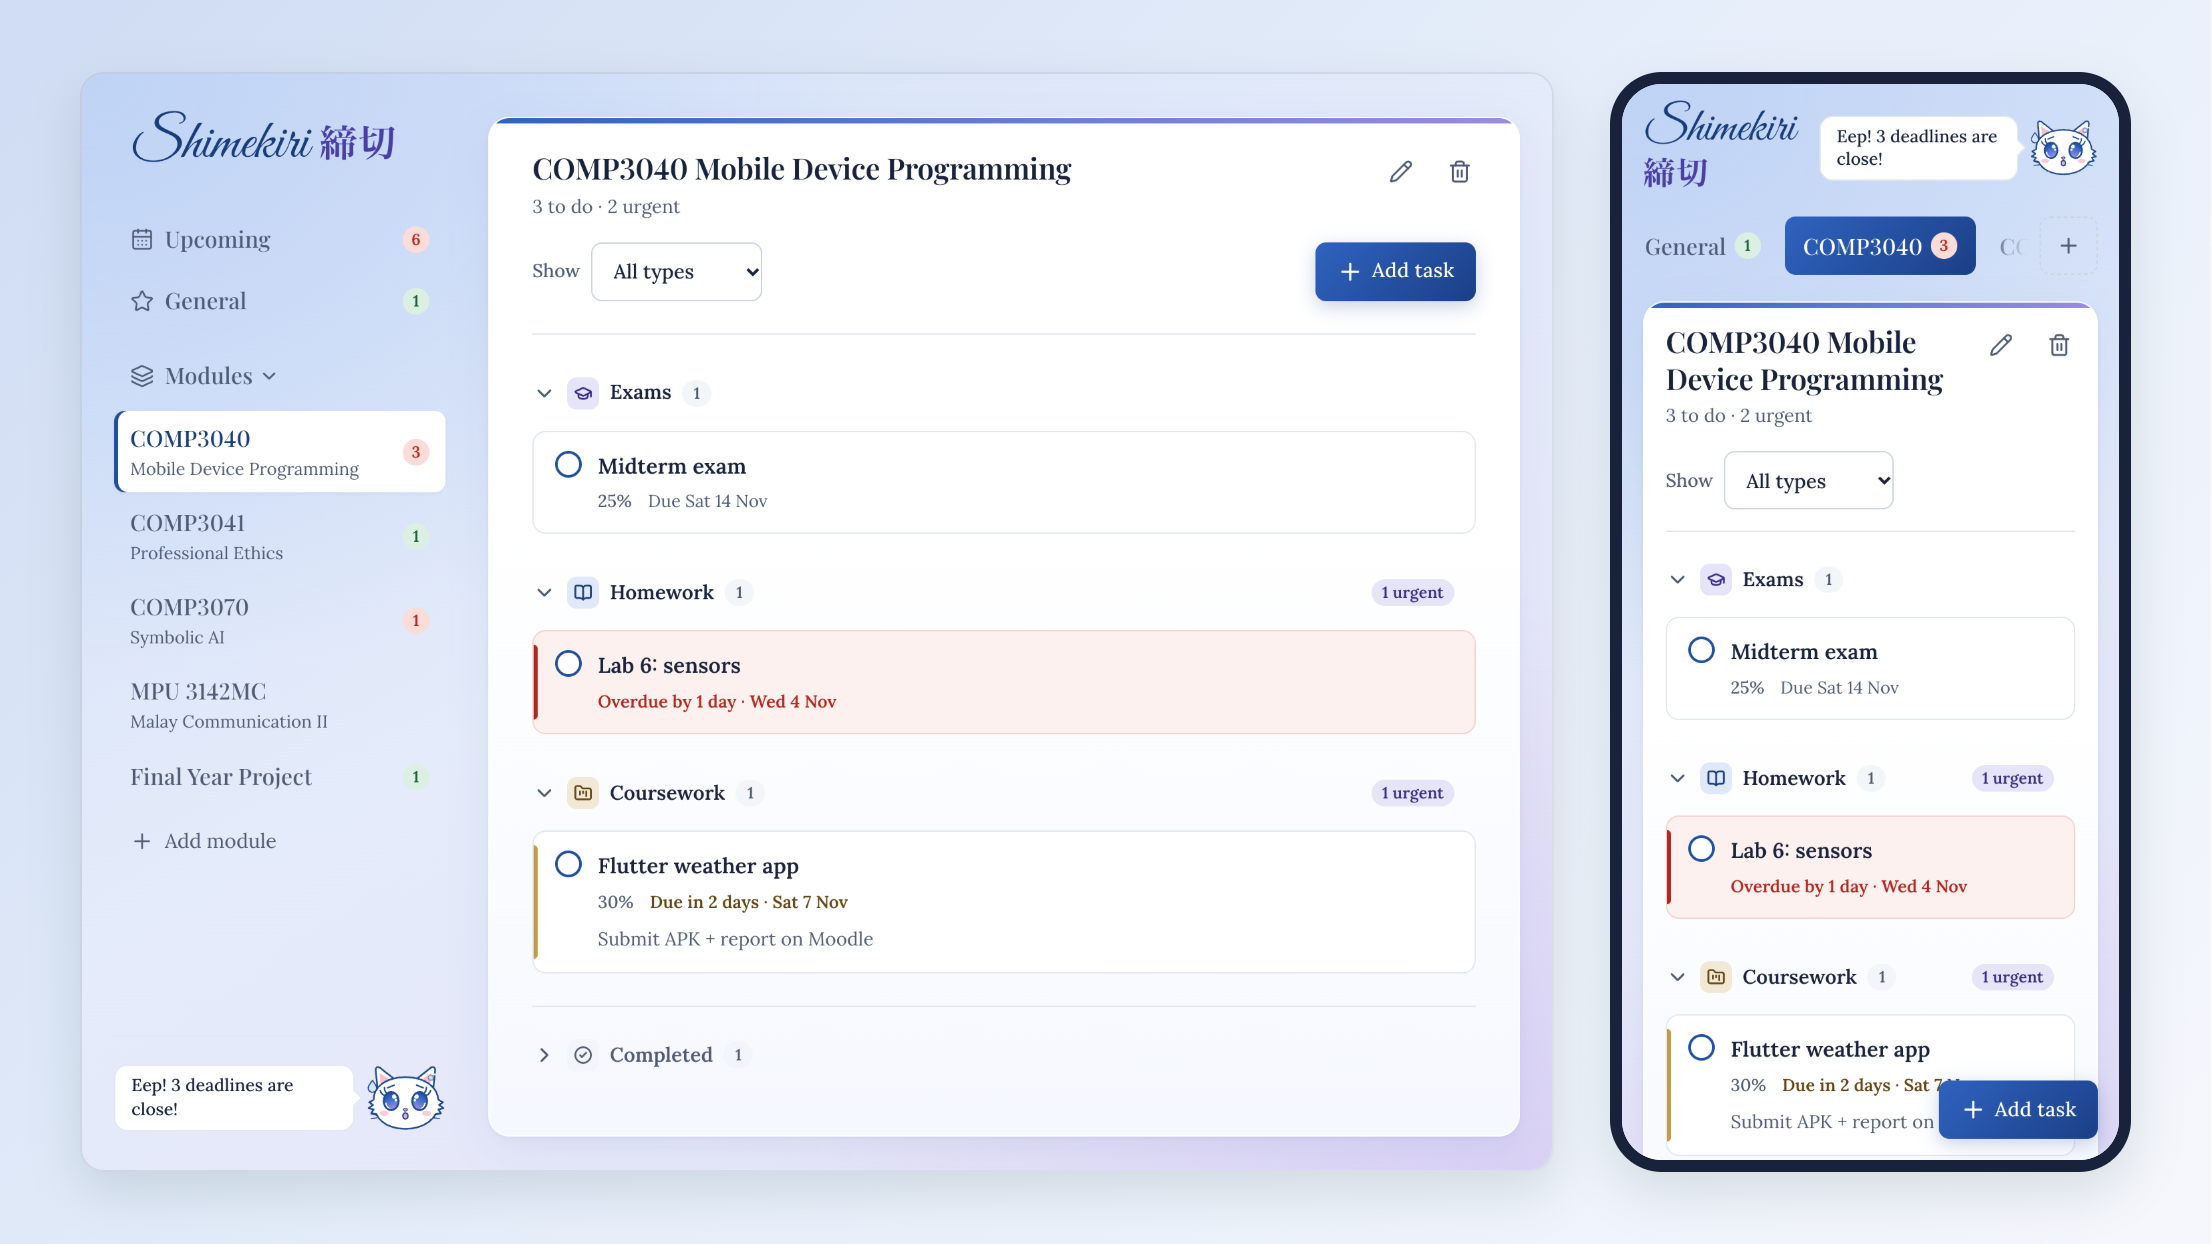
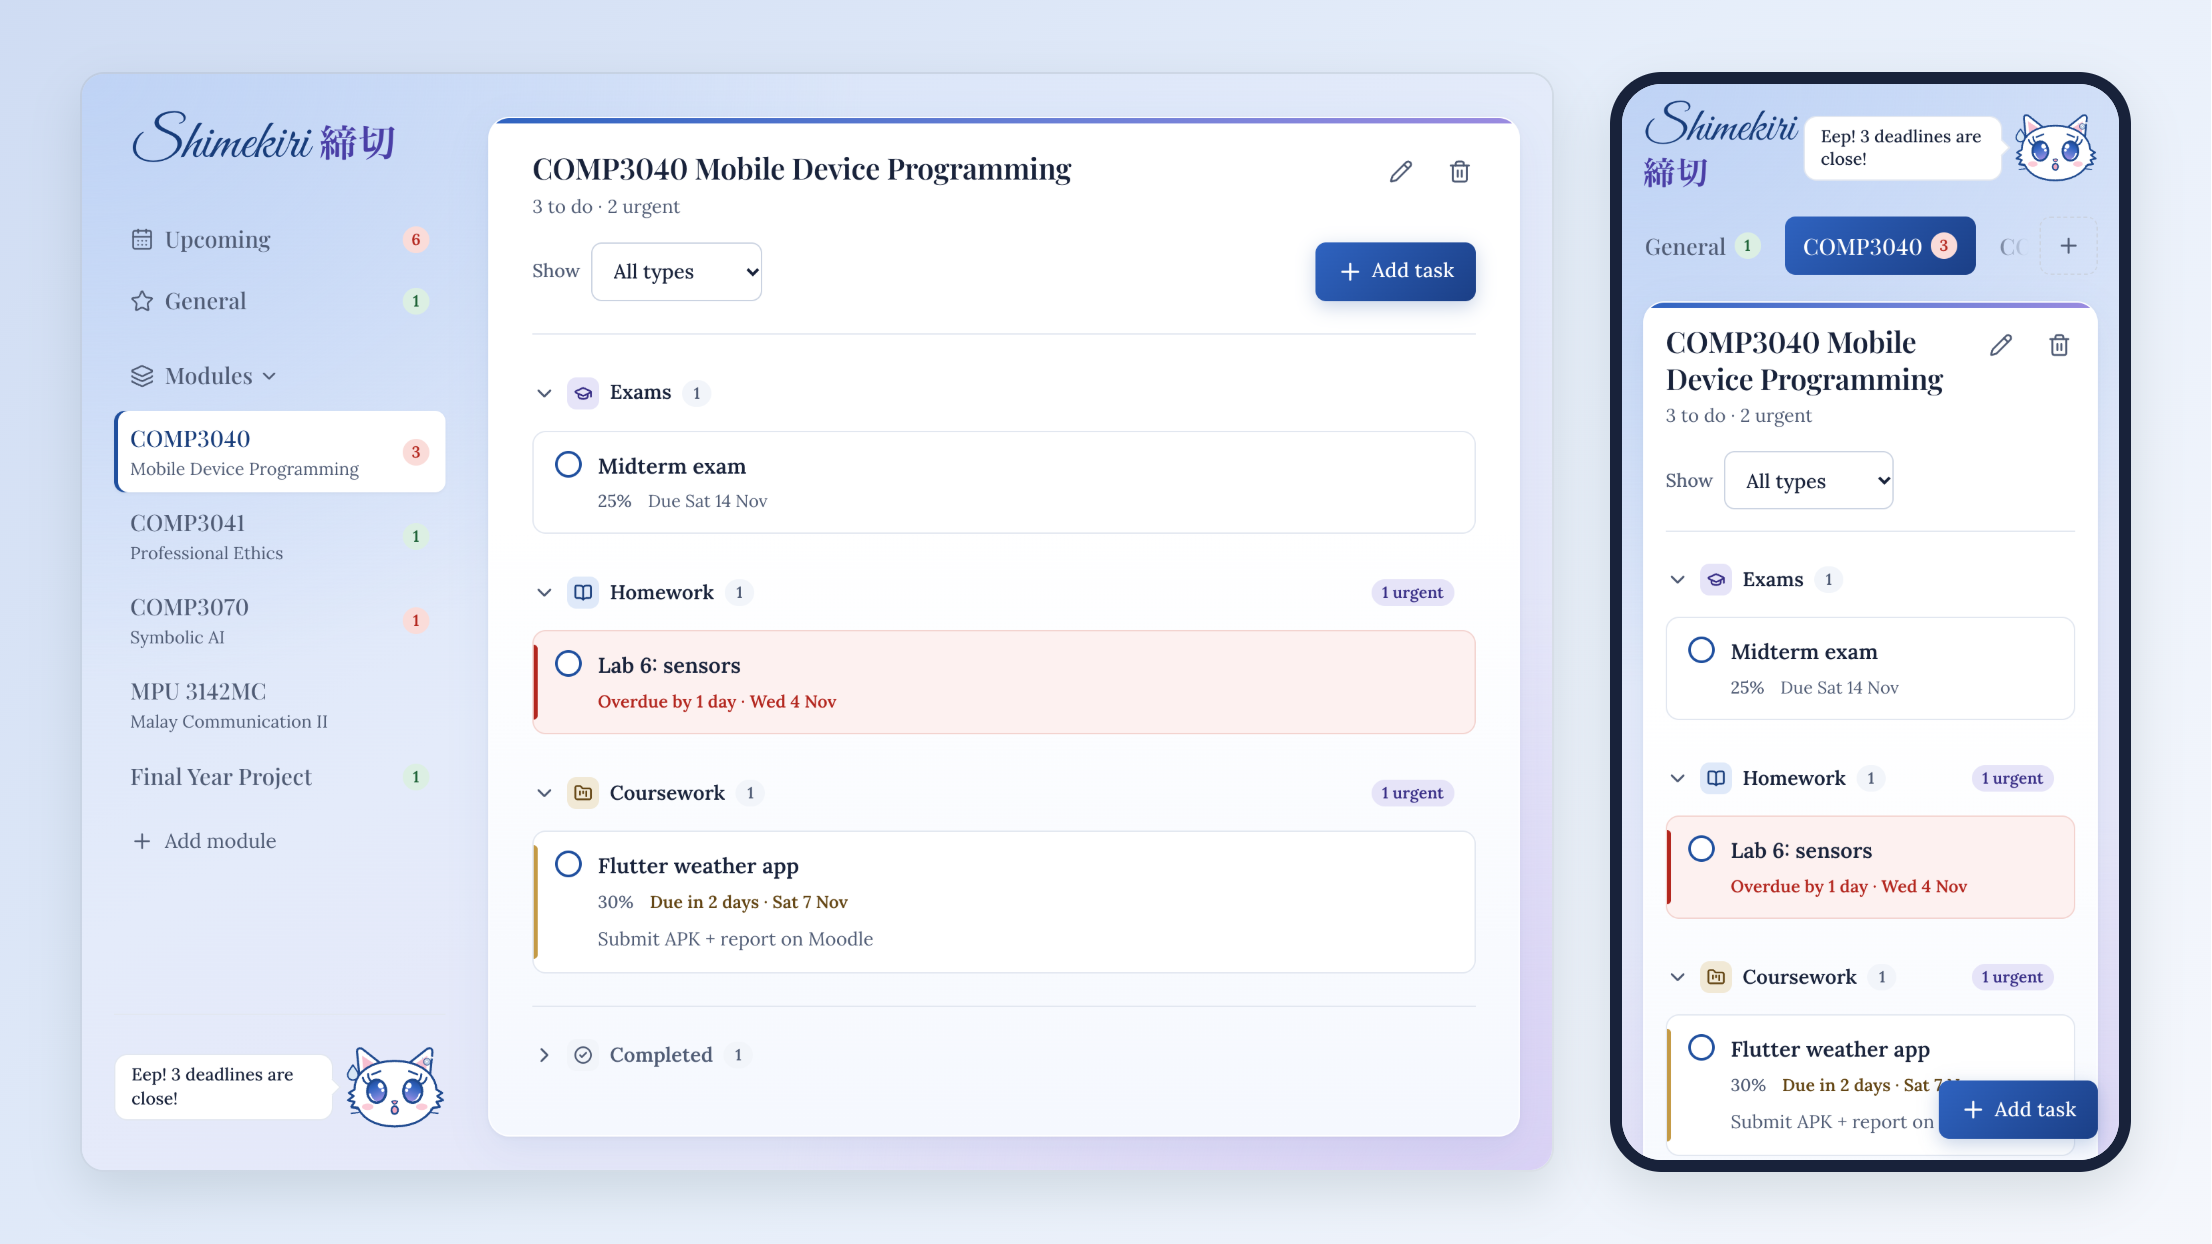
style: make the mascot slightly bigger
76px in the sidebar (was 60) and 64px on phones (was 52).

Changed region(s): [[0.0312, 0.8248, 0.2184, 0.9164], [0.811, 0.0916, 0.967, 0.1527]]

diff --git a/src/components/Mascot.module.css b/src/components/Mascot.module.css
@@ -7,8 +7,8 @@
 
 .art {
   flex: none;
-  width: 60px;
-  height: 60px;
+  width: 76px;
+  height: 76px;
   overflow: visible;
 }
 
@@ -108,8 +108,8 @@
 
 @media (max-width: 599px) {
   .art {
-    width: 52px;
-    height: 52px;
+    width: 64px;
+    height: 64px;
   }
 
   .bubble {
